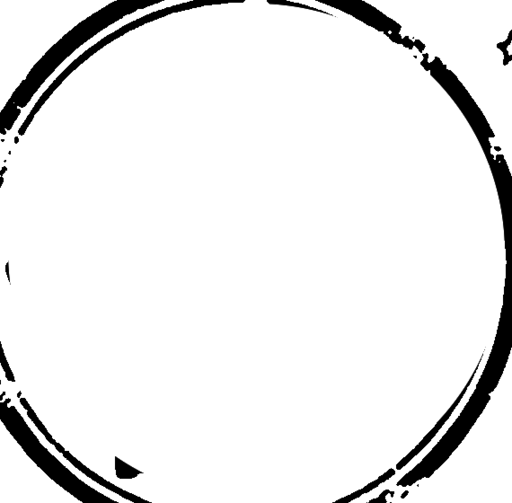
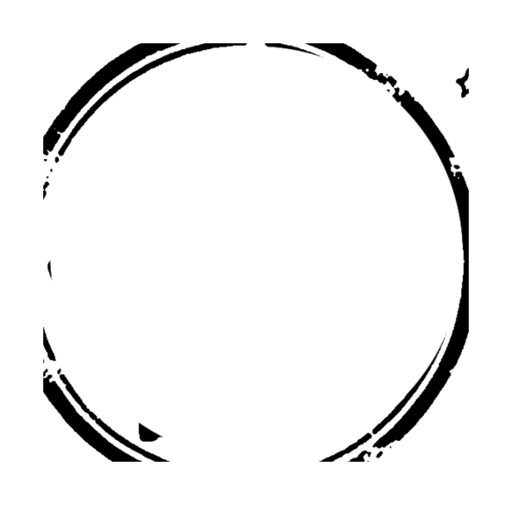
fix: remove already-done screen, reload always returns to home
- Delete AlreadyDone.tsx; home now shows "done today" state when logged
- init() and goHome() always route to home regardless of today's log
- Remove settingsFrom/setSettingsFrom (no longer needed)
- Fix stamp PNG: add transparent border so shape no longer clips at edges
- Restore mask-size to 100% (padding is now in the PNG itself)
- Add overflow: visible to stamp-block to prevent animation clipping

diff --git a/src/screens/Home.tsx b/src/screens/Home.tsx
@@ -2,6 +2,7 @@ import { useAppStore } from '../store/useAppStore'
 import { charImgPath } from '../characters'
 import { Calendar } from '../components/Calendar'
 import { pickDeclaration, pickWriteReaction } from '../data/declarations'
+import { todayStr } from '../utils/storage'
 import type { ChoiceType } from '../types'
 
 export function Home() {
@@ -10,10 +11,10 @@ export function Home() {
   const goTo = useAppStore(s => s.goTo)
   const setChoice = useAppStore(s => s.setChoice)
   const setDeclaration = useAppStore(s => s.setDeclaration)
-  const setSettingsFrom = useAppStore(s => s.setSettingsFrom)
 
   const ch = user?.character ?? 'kuma'
   const name = user?.name ?? ''
+  const todayLog = logs[todayStr()]
 
   const handleChoice = (type: ChoiceType) => {
     setChoice(type)
@@ -27,10 +28,26 @@ export function Home() {
     }
   }
 
+  if (todayLog) {
+    return (
+      <div className="screen-inner">
+        <div className="top-bar">
+          <button className="icon-btn" onClick={() => goTo('settings')}>⚙</button>
+        </div>
+        <div className="chara-block">
+          <img className="chara-img chara-lg" src={charImgPath(ch, 'watch')} alt="相棒" />
+        </div>
+        <p className="greeting">おかえり。</p>
+        <p className="greeting-sub">今日はもう十分やったんじゃない？</p>
+        <Calendar logs={logs} />
+      </div>
+    )
+  }
+
   return (
     <div className="screen-inner">
       <div className="top-bar">
-        <button className="icon-btn" onClick={() => { setSettingsFrom('home'); goTo('settings') }}>⚙</button>
+        <button className="icon-btn" onClick={() => goTo('settings')}>⚙</button>
       </div>
       <div className="chara-block">
         <img className="chara-img" src={charImgPath(ch, 'normal')} alt="相棒" />

diff --git a/src/store/useAppStore.ts b/src/store/useAppStore.ts
@@ -9,7 +9,6 @@ interface AppStore {
   logs: Record<string, LogEntry>
   choice: ChoiceType | null
   declaration: Declaration | null
-  settingsFrom: 'home' | 'already'
 
   // Actions
   init: () => void
@@ -19,7 +18,6 @@ interface AppStore {
   logToday: (type: ChoiceType, declarationId?: string | null) => void
   setChoice: (type: ChoiceType) => void
   setDeclaration: (d: Declaration) => void
-  setSettingsFrom: (from: 'home' | 'already') => void
 
   // Selectors
   todayLog: () => LogEntry | undefined
@@ -31,7 +29,6 @@ export const useAppStore = create<AppStore>((set, get) => ({
   logs: {},
   choice: null,
   declaration: null,
-  settingsFrom: 'home',
 
   init() {
     const user = storage.loadUser()
@@ -40,7 +37,7 @@ export const useAppStore = create<AppStore>((set, get) => ({
     if (!user?.onboarded) {
       set({ screen: 'onboarding' })
     } else {
-      set({ screen: logs[todayStr()] ? 'already-done' : 'home' })
+      set({ screen: 'home' })
     }
   },
 
@@ -48,7 +45,7 @@ export const useAppStore = create<AppStore>((set, get) => ({
 
   goHome() {
     const logs = storage.loadLogs()
-    set({ logs, screen: logs[todayStr()] ? 'already-done' : 'home' })
+    set({ logs, screen: 'home' })
   },
 
   saveUser(user) {
@@ -66,7 +63,6 @@ export const useAppStore = create<AppStore>((set, get) => ({
 
   setChoice(choice) { set({ choice }) },
   setDeclaration(declaration) { set({ declaration }) },
-  setSettingsFrom(settingsFrom) { set({ settingsFrom }) },
 
   todayLog() { return get().logs[todayStr()] },
 }))

diff --git a/src/screens/Settings.tsx b/src/screens/Settings.tsx
@@ -8,15 +8,10 @@ export function Settings() {
   const saveUser = useAppStore(s => s.saveUser)
   const goTo = useAppStore(s => s.goTo)
   const goHome = useAppStore(s => s.goHome)
-  const settingsFrom = useAppStore(s => s.settingsFrom)
 
   const [name, setName] = useState(user?.name ?? '')
   const [char, setChar] = useState(user?.character ?? 'kuma')
   const [toast, setToast] = useState<string | null>(null)
-
-  const handleBack = () => {
-    settingsFrom === 'already' ? goTo('already-done') : goHome()
-  }
 
   const handleSave = () => {
     if (!name.trim()) return
@@ -27,7 +22,7 @@ export function Settings() {
   return (
     <div className="screen-scroll">
       <div className="subscreen-header">
-        <button className="back-btn" onClick={handleBack}>← 戻る</button>
+        <button className="back-btn" onClick={goHome}>← 戻る</button>
         <h2 className="subscreen-title">設定</h2>
       </div>
 

diff --git a/src/index.css b/src/index.css
@@ -177,14 +177,12 @@ html, body, #root {
 .reaction-text { font-size: 16px; line-height: 1.7; }
 
 /* ===== REST / STAMP ===== */
-.stamp-block { display: flex; align-items: center; justify-content: center; width: 220px; height: 220px; }
+.stamp-block { display: flex; align-items: center; justify-content: center; width: 220px; height: 220px; overflow: visible; }
 .stamp-colored {
   width: 210px; height: 210px;
   -webkit-mask-image: url(/assets/images/stamps/stamp-mask.png);
   mask-image: url(/assets/images/stamps/stamp-mask.png);
-  -webkit-mask-size: 82% 82%; mask-size: 82% 82%;
-  -webkit-mask-repeat: no-repeat; mask-repeat: no-repeat;
-  -webkit-mask-position: center; mask-position: center;
+  -webkit-mask-size: 100% 100%; mask-size: 100% 100%;
   background-color: #4A5E3A;
   transform-origin: center;
   transform: scale(0.06); opacity: 0;

diff --git a/src/screens/RestTemplate.tsx b/src/screens/RestTemplate.tsx
@@ -8,6 +8,7 @@ export function RestTemplate() {
   const declaration = useAppStore(s => s.declaration)
   const logToday = useAppStore(s => s.logToday)
   const goTo = useAppStore(s => s.goTo)
+  const goHome = useAppStore(s => s.goHome)
   const [toast, setToast] = useState<string | null>(null)
 
   const template = storage.loadTemplate()
@@ -20,12 +21,12 @@ export function RestTemplate() {
     }
     window.open('https://note.com', '_blank', 'noopener,noreferrer')
     logToday('rest', declaration?.id ?? null)
-    goTo('already-done')
+    goHome()
   }
 
   const handleSkip = () => {
     logToday('rest', declaration?.id ?? null)
-    goTo('already-done')
+    goHome()
   }
 
   return (

diff --git a/src/screens/Rest.tsx b/src/screens/Rest.tsx
@@ -9,6 +9,7 @@ export function Rest() {
   const declaration = useAppStore(s => s.declaration)
   const logToday = useAppStore(s => s.logToday)
   const goTo = useAppStore(s => s.goTo)
+  const goHome = useAppStore(s => s.goHome)
 
   const ch = user?.character ?? 'kuma'
 
@@ -21,13 +22,13 @@ export function Rest() {
       copyToClipboard(declaration?.text ?? '').catch(() => {})
       window.open('https://note.com', '_blank', 'noopener,noreferrer')
       logToday('rest', declaration?.id ?? null)
-      goTo('already-done')
+      goHome()
     }
   }
 
   const handleSkip = () => {
     logToday('rest', declaration?.id ?? null)
-    goTo('already-done')
+    goHome()
   }
 
   return (

diff --git a/src/App.tsx b/src/App.tsx
@@ -5,7 +5,6 @@ import { Home } from './screens/Home'
 import { Reaction } from './screens/Reaction'
 import { Rest } from './screens/Rest'
 import { RestTemplate } from './screens/RestTemplate'
-import { AlreadyDone } from './screens/AlreadyDone'
 import { Settings } from './screens/Settings'
 import { TemplateEditor } from './screens/TemplateEditor'
 import type { ScreenName } from './types'
@@ -17,7 +16,6 @@ const SCREENS: Record<ScreenName, JSX.Element> = {
   'reaction':        <Reaction />,
   'rest':            <Rest />,
   'rest-template':   <RestTemplate />,
-  'already-done':    <AlreadyDone />,
   'settings':        <Settings />,
   'template-editor': <TemplateEditor />,
 }

diff --git a/src/screens/Reaction.tsx b/src/screens/Reaction.tsx
@@ -4,14 +4,14 @@ import { charImgPath } from '../characters'
 export function Reaction() {
   const user = useAppStore(s => s.user)
   const logToday = useAppStore(s => s.logToday)
-  const goTo = useAppStore(s => s.goTo)
+  const goHome = useAppStore(s => s.goHome)
 
   const ch = user?.character ?? 'kuma'
   const text = (window as any).__reactionText ?? 'よく選べたね。'
 
   const handleDone = () => {
     logToday('write')
-    goTo('already-done')
+    goHome()
   }
 
   return (

diff --git a/src/types.ts b/src/types.ts
@@ -4,7 +4,6 @@ export type ScreenName =
   | 'reaction'
   | 'rest'
   | 'rest-template'
-  | 'already-done'
   | 'settings'
   | 'template-editor'
 
